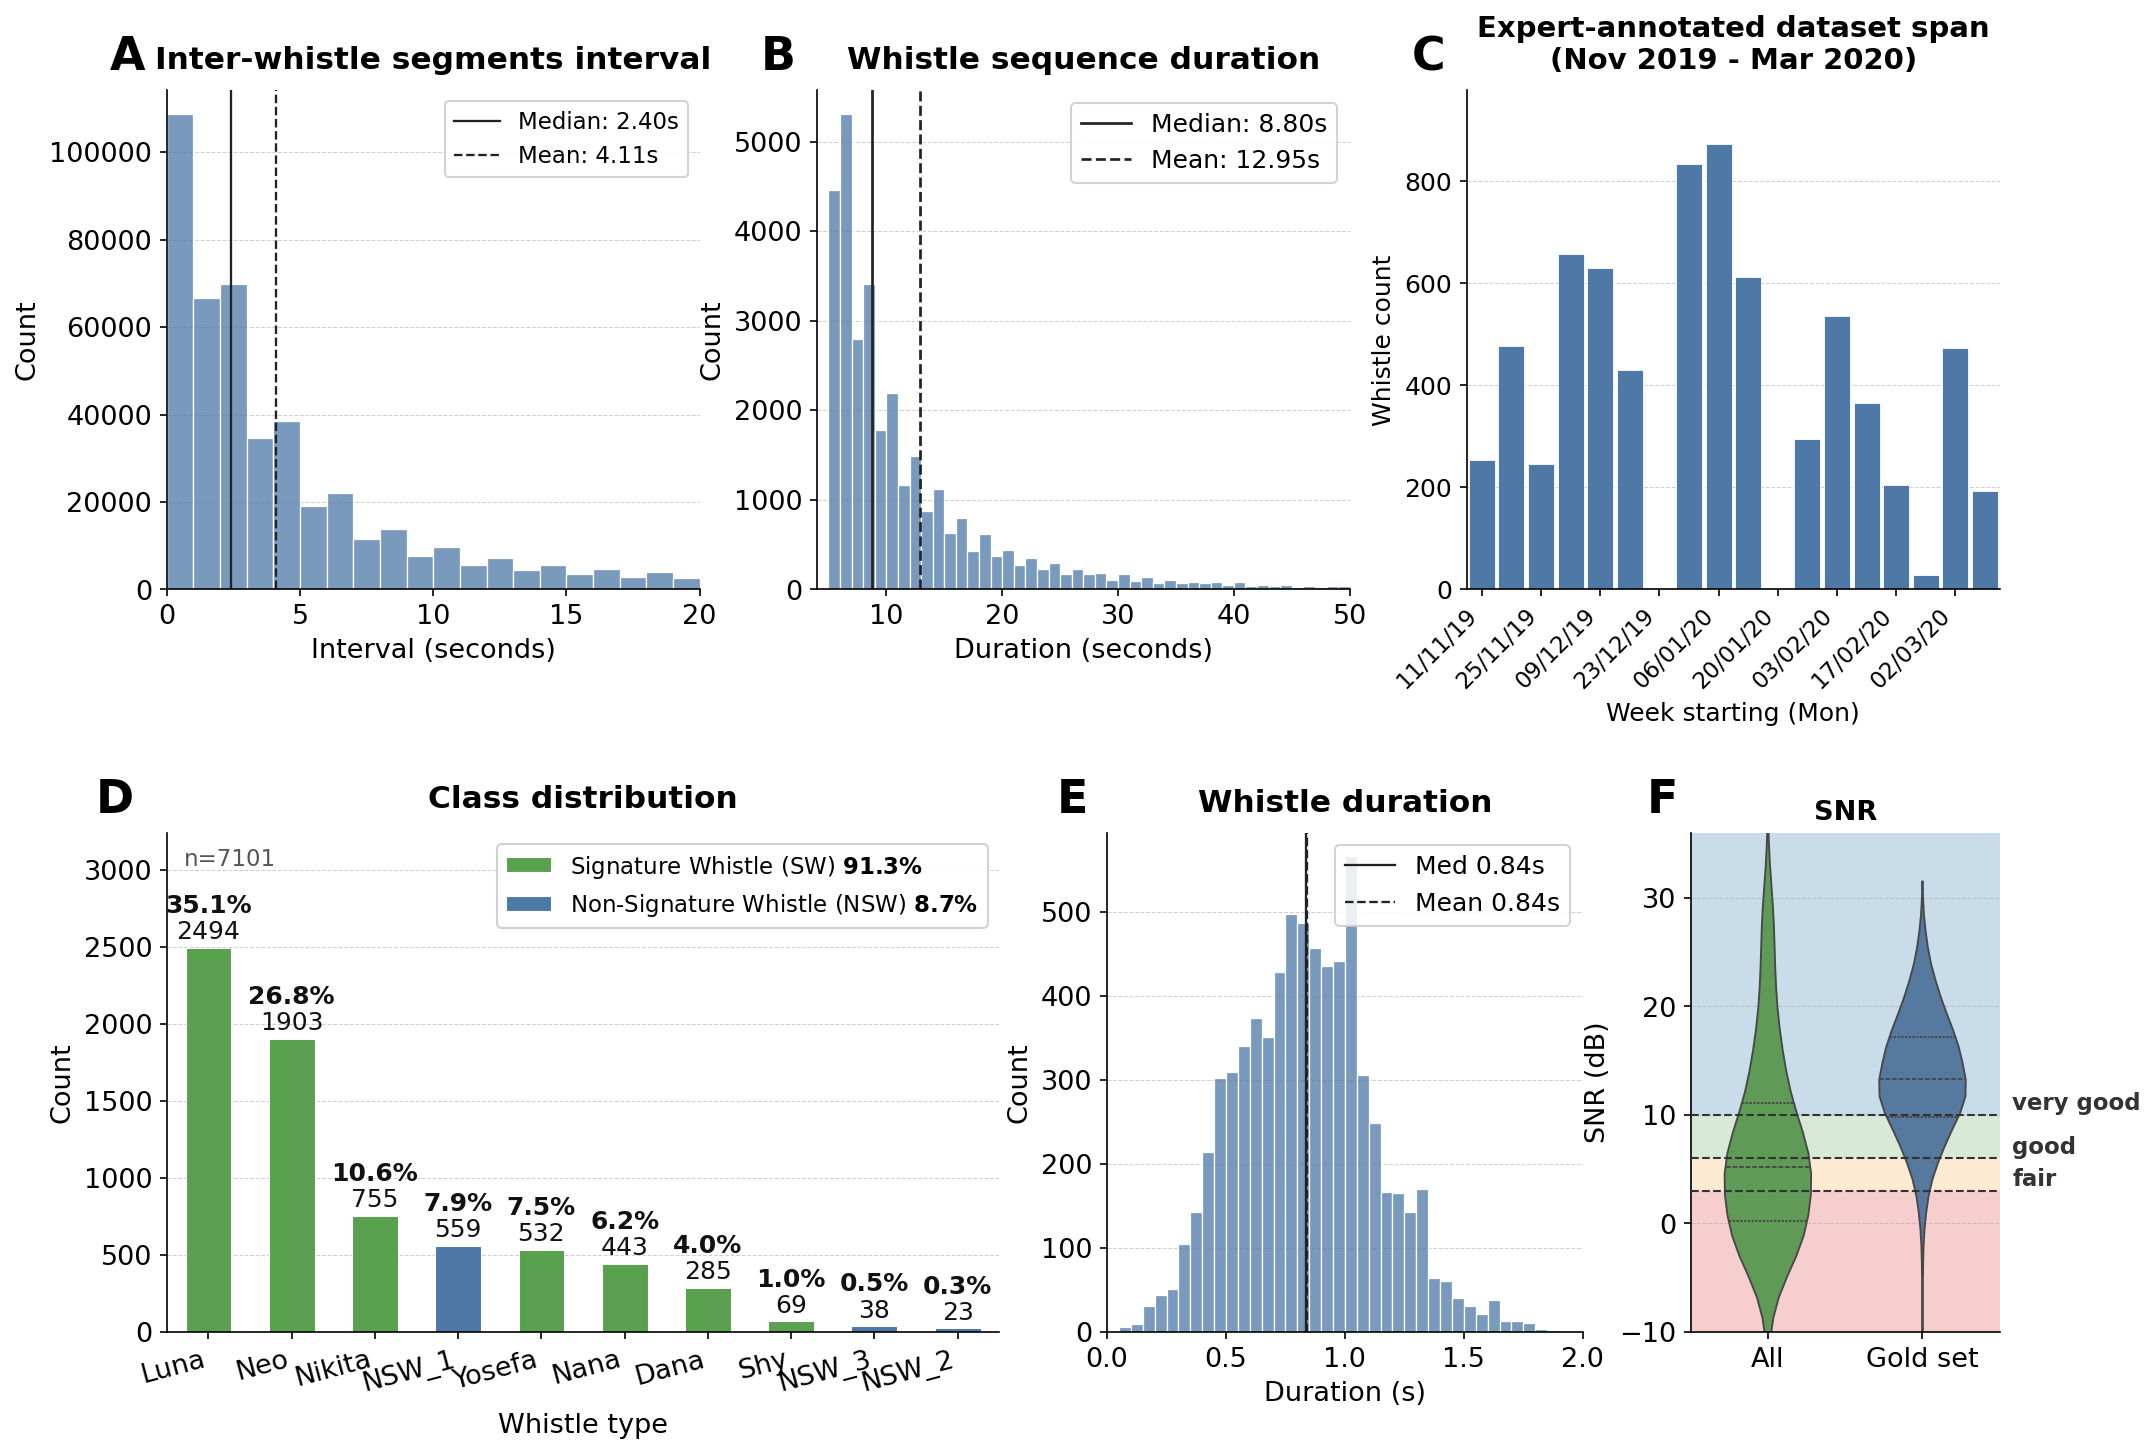
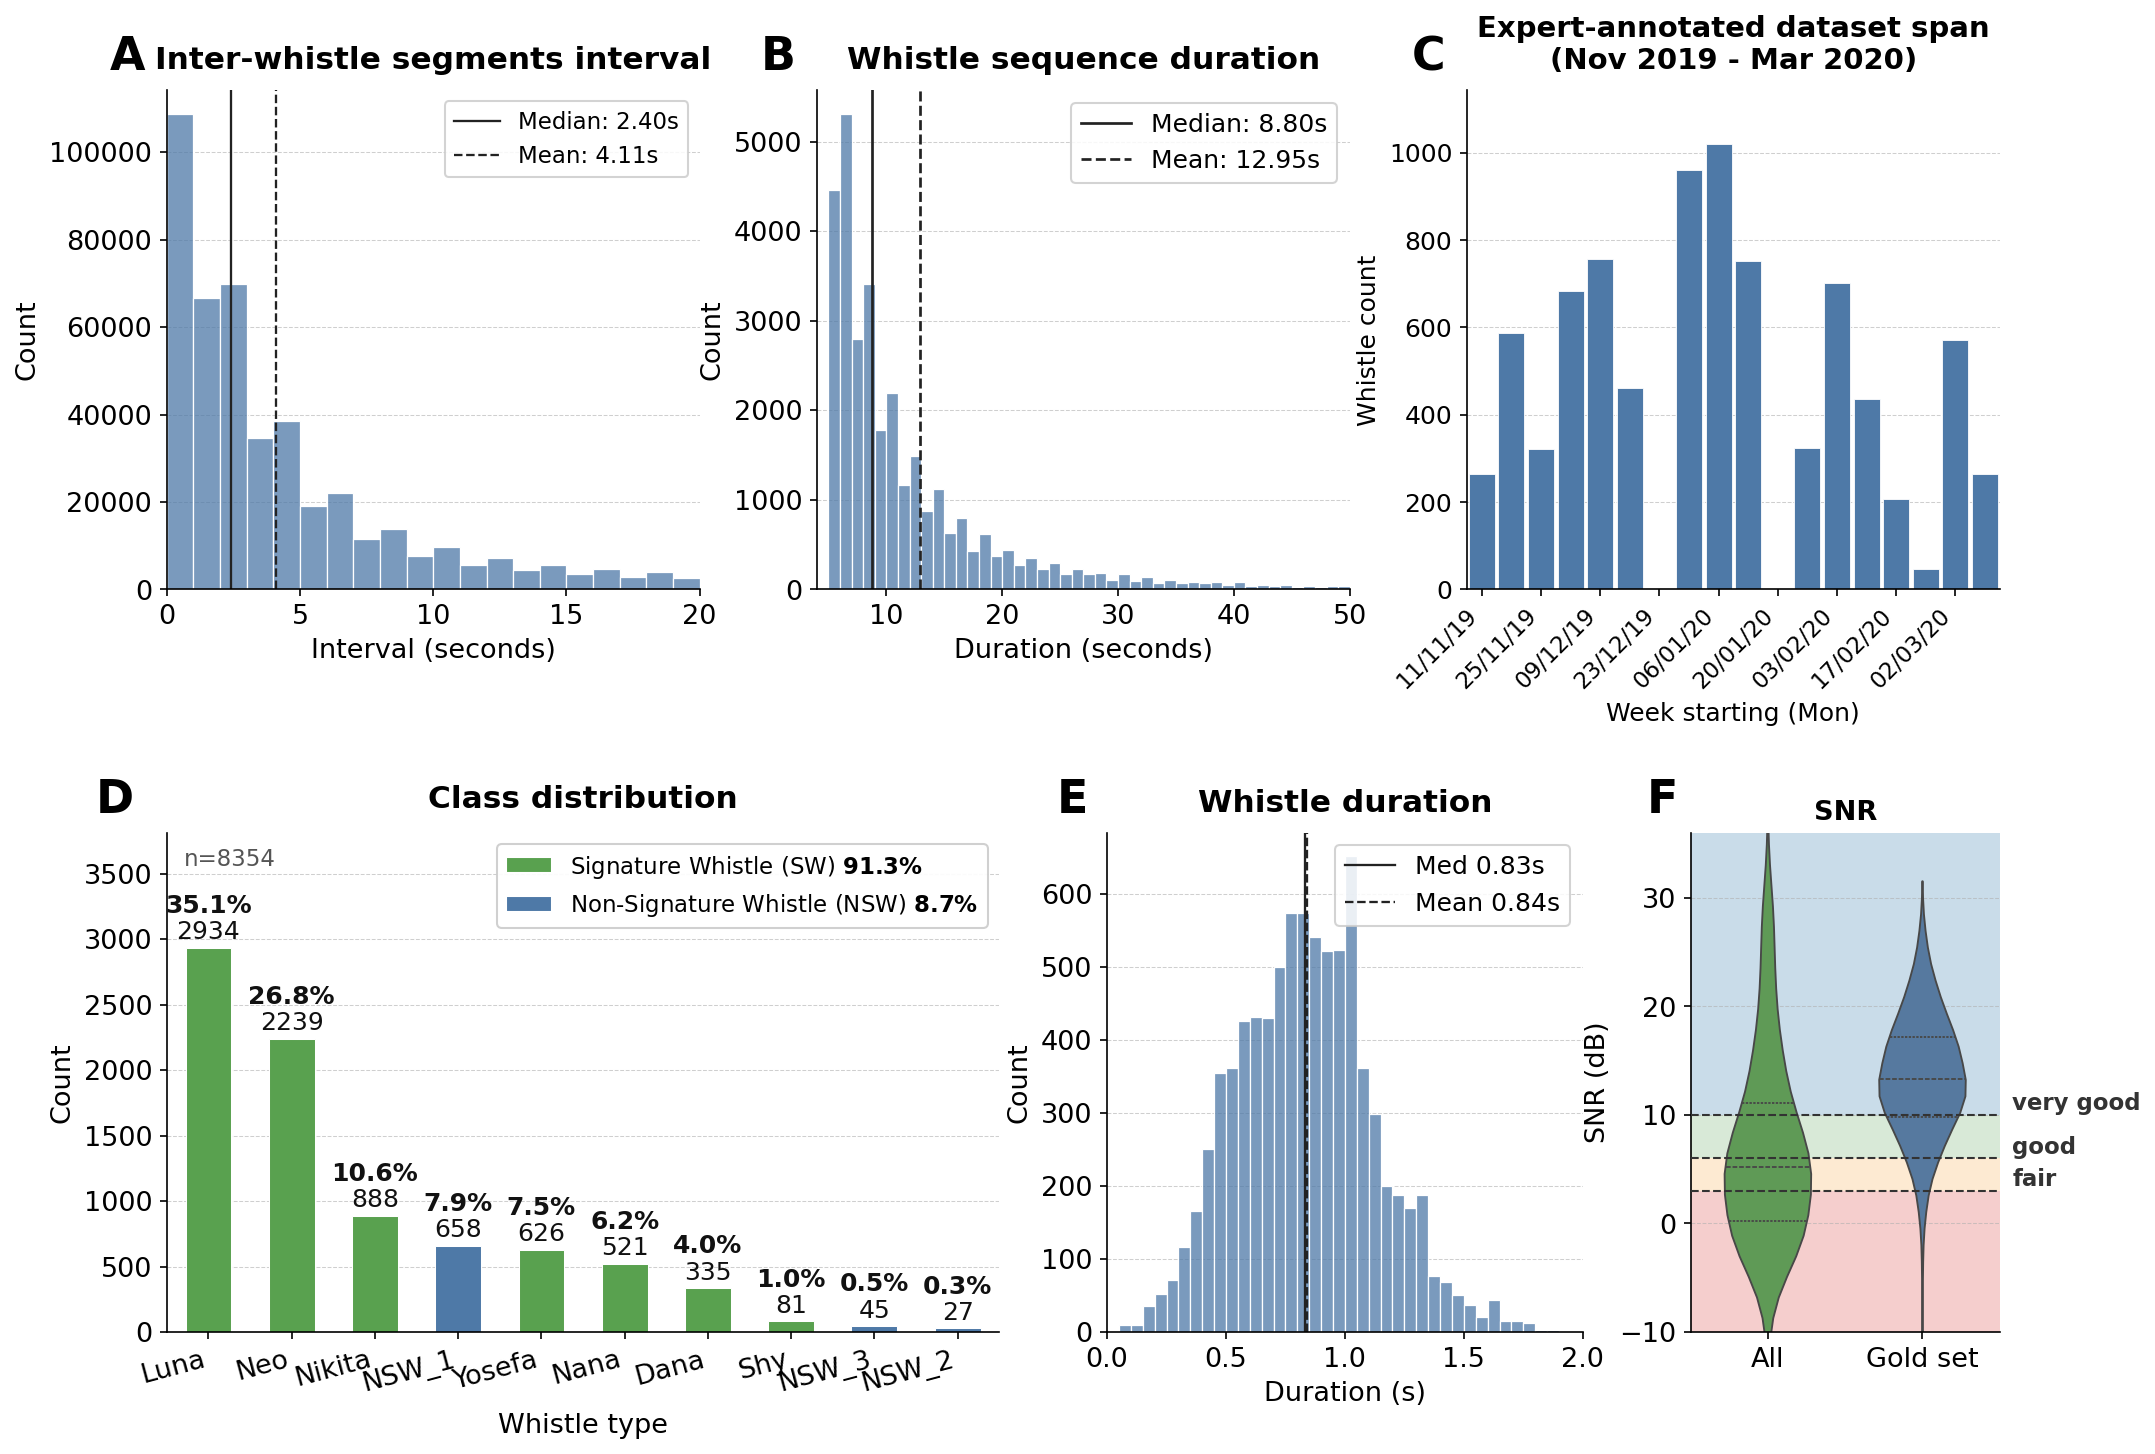
Fix class distribution plot

diff --git a/datasets_figures/plot_classification_overview.py b/datasets_figures/plot_classification_overview.py
@@ -86,9 +86,12 @@ def main() -> None:
     if not isinstance(ds, DatasetDict):
         ds = DatasetDict({"train": ds})
 
-    splits = [s for s in ("train", "test") if s in ds]
+    # Concatenate every split (train / validation / test / …), not only train+test.
+    _order = ("train", "validation", "test", "dev")
+    splits = [s for s in _order if s in ds]
+    splits.extend(sorted(s for s in ds.keys() if s not in splits))
     if not splits:
-        raise SystemExit(f"No train/test splits in dataset: {list(ds.keys())}")
+        raise SystemExit(f"No splits in dataset: {list(ds.keys())}")
 
     first = ds[splits[0]]
     if "label" not in first.features:
